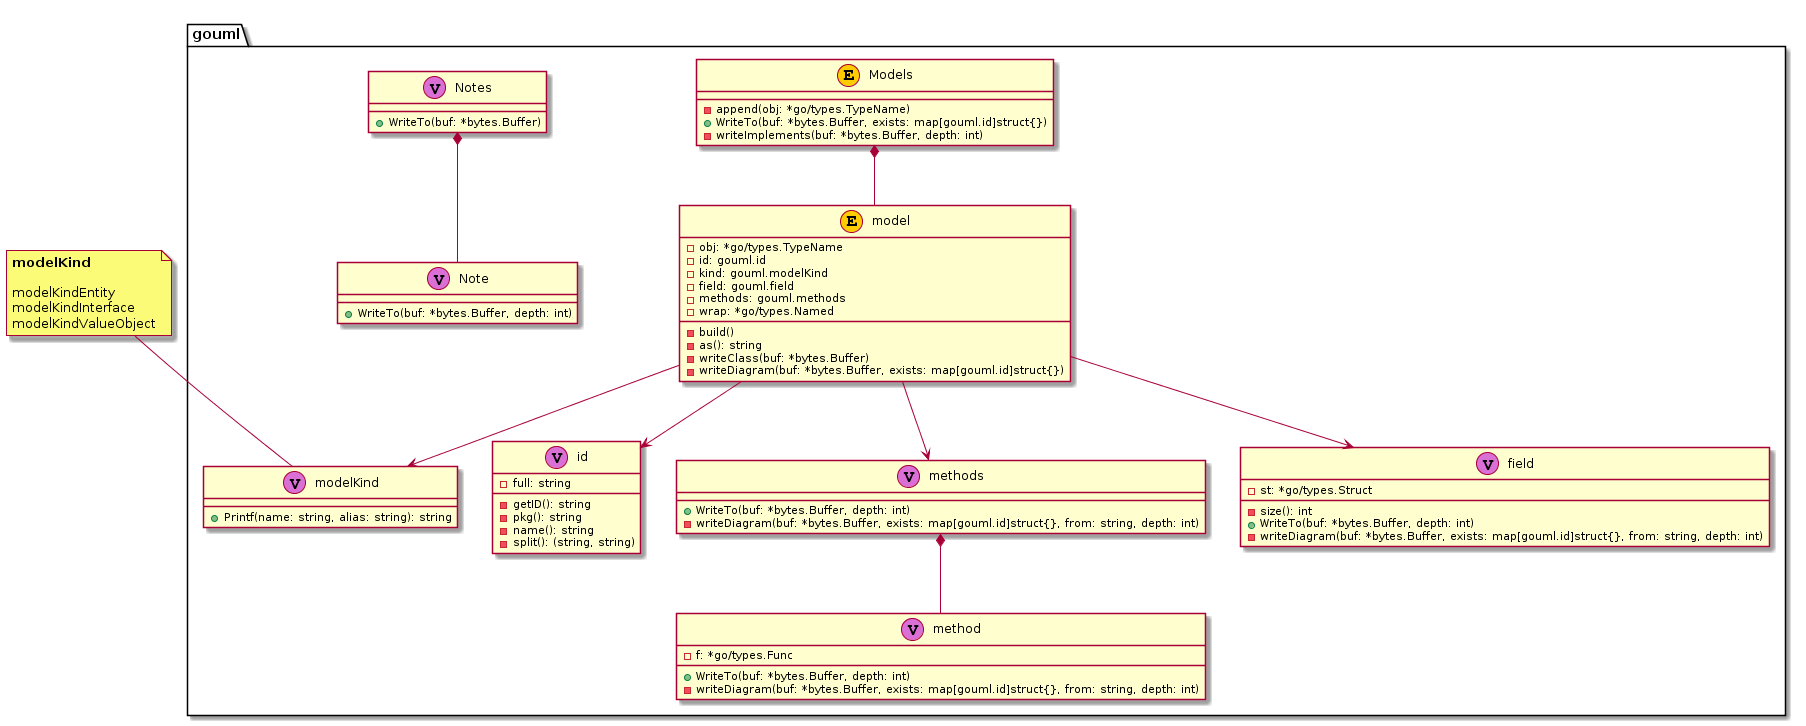
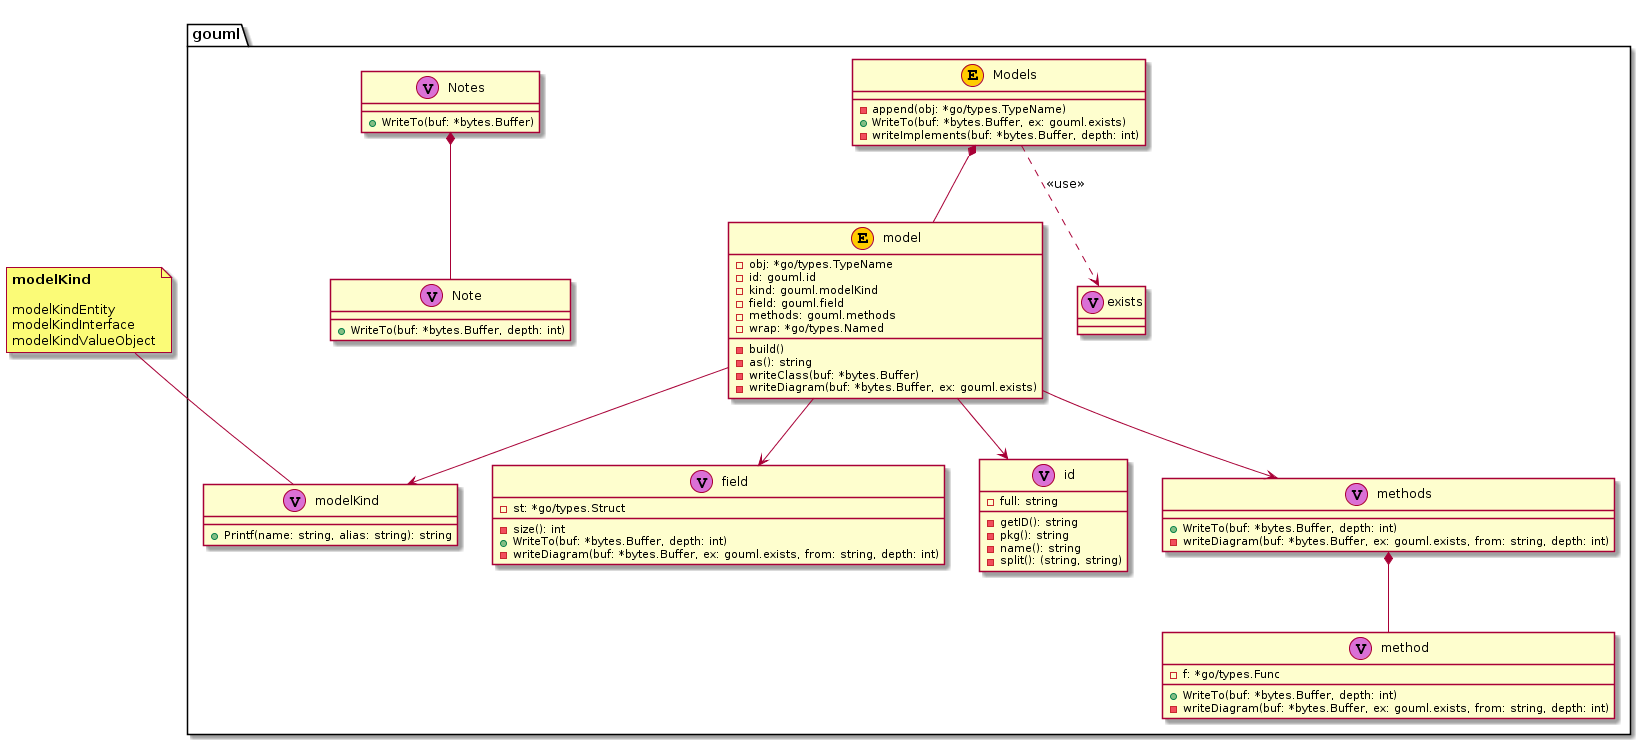
refatored

diff --git a/internal/gouml/model.go b/internal/gouml/model.go
@@ -15,10 +15,10 @@ func (ms *Models) append(obj *types.TypeName) {
 }
 
 // WriteTo ...
-func (ms Models) WriteTo(buf *bytes.Buffer, exists map[id]struct{}) {
+func (ms Models) WriteTo(buf *bytes.Buffer, ex exists) {
 	for _, m := range ms {
 		m.writeClass(buf)
-		m.writeDiagram(buf, exists)
+		m.writeDiagram(buf, ex)
 	}
 	ms.writeImplements(buf, 1)
 }
@@ -129,13 +129,13 @@ func (m model) writeClass(buf *bytes.Buffer) {
 	buf.WriteString("}")
 }
 
-func (m model) writeDiagram(buf *bytes.Buffer, exists map[id]struct{}) {
+func (m model) writeDiagram(buf *bytes.Buffer, ex exists) {
 	from := m.as()
 	newline(buf, 0)
-	m.field.writeDiagram(buf, exists, from, 1)
+	m.field.writeDiagram(buf, ex, from, 1)
 
 	newline(buf, 0)
-	m.methods.writeDiagram(buf, exists, from, 1)
+	m.methods.writeDiagram(buf, ex, from, 1)
 
 	newline(buf, 0)
 	if wrap := m.wrap; wrap != nil {
@@ -171,7 +171,7 @@ func (f field) WriteTo(buf *bytes.Buffer, depth int) {
 	}
 }
 
-func (f field) writeDiagram(buf *bytes.Buffer, exists map[id]struct{}, from string, depth int) {
+func (f field) writeDiagram(buf *bytes.Buffer, ex exists, from string, depth int) {
 	if f.st == nil {
 		return
 	}
@@ -186,9 +186,8 @@ func (f field) writeDiagram(buf *bytes.Buffer, exists map[id]struct{}, from stri
 		if sl, ok := typ.(*types.Slice); ok {
 			typ = sl.Elem()
 		}
-		id := id{full: typ.String()}
-		to := id.getID()
-		if _, ok := exists[id]; !ok {
+		to := extractName(typ.String())
+		if _, ok := ex[to]; !ok {
 			continue
 		}
 		newline(buf, depth)
@@ -206,9 +205,9 @@ func (ms methods) WriteTo(buf *bytes.Buffer, depth int) {
 	}
 }
 
-func (ms methods) writeDiagram(buf *bytes.Buffer, exists map[id]struct{}, from string, depth int) {
+func (ms methods) writeDiagram(buf *bytes.Buffer, ex exists, from string, depth int) {
 	for _, m := range ms {
-		m.writeDiagram(buf, exists, from, depth)
+		m.writeDiagram(buf, ex, from, depth)
 	}
 }
 
@@ -269,7 +268,7 @@ func (m method) WriteTo(buf *bytes.Buffer, depth int) {
 	}
 }
 
-func (m method) writeDiagram(buf *bytes.Buffer, exists map[id]struct{}, from string, depth int) {
+func (m method) writeDiagram(buf *bytes.Buffer, ex exists, from string, depth int) {
 	if m.f == nil {
 		return
 	}
@@ -295,9 +294,8 @@ func (m method) writeDiagram(buf *bytes.Buffer, exists map[id]struct{}, from str
 		if sl, ok := typ.(*types.Slice); ok {
 			typ = sl.Elem()
 		}
-		id := id{full: typ.String()}
-		to := id.getID()
-		if _, ok := exists[id]; !ok {
+		to := extractName(typ.String())
+		if _, ok := ex[to]; !ok {
 			continue
 		}
 		newline(buf, depth)
@@ -320,9 +318,8 @@ func (m method) writeDiagram(buf *bytes.Buffer, exists map[id]struct{}, from str
 		if sl, ok := typ.(*types.Slice); ok {
 			typ = sl.Elem()
 		}
-		id := id{full: typ.String()}
-		to := id.getID()
-		if _, ok := exists[id]; !ok {
+		to := extractName(typ.String())
+		if _, ok := ex[to]; !ok {
 			continue
 		}
 		newline(buf, depth)

diff --git a/internal/gouml/gouml.go b/internal/gouml/gouml.go
@@ -22,7 +22,7 @@ func Gen(baseDir, out string) error {
 		return err
 	}
 	objects := []types.Object{}
-	exists := map[id]struct{}{}
+	ex := exists{}
 	for _, pkg := range pkgs {
 		scope := pkg.Scope()
 		for _, name := range scope.Names() {
@@ -30,7 +30,7 @@ func Gen(baseDir, out string) error {
 			objects = append(objects, obj)
 
 			if obj.Pkg().Name() == pkg.Name() {
-				exists[id{full: obj.Type().String()}] = struct{}{}
+				ex[extractName(obj.Type().String())] = struct{}{}
 			}
 		}
 	}
@@ -53,7 +53,7 @@ func Gen(baseDir, out string) error {
 	}
 
 	buf := &bytes.Buffer{}
-	models.WriteTo(buf, exists)
+	models.WriteTo(buf, ex)
 	notes.WriteTo(buf)
 	newline(buf, 0)
 

diff --git a/internal/gouml/utils.go b/internal/gouml/utils.go
@@ -12,6 +12,16 @@ func newline(dst *bytes.Buffer, depth int) {
 	}
 }
 
+func extractName(full string) string {
+	if strings.Contains(full, "/") {
+		parts := strings.Split(full, "/")
+		full = parts[len(parts)-1]
+	}
+	return full
+}
+
+type exists map[string]struct{}
+
 type id struct {
 	full string
 }
